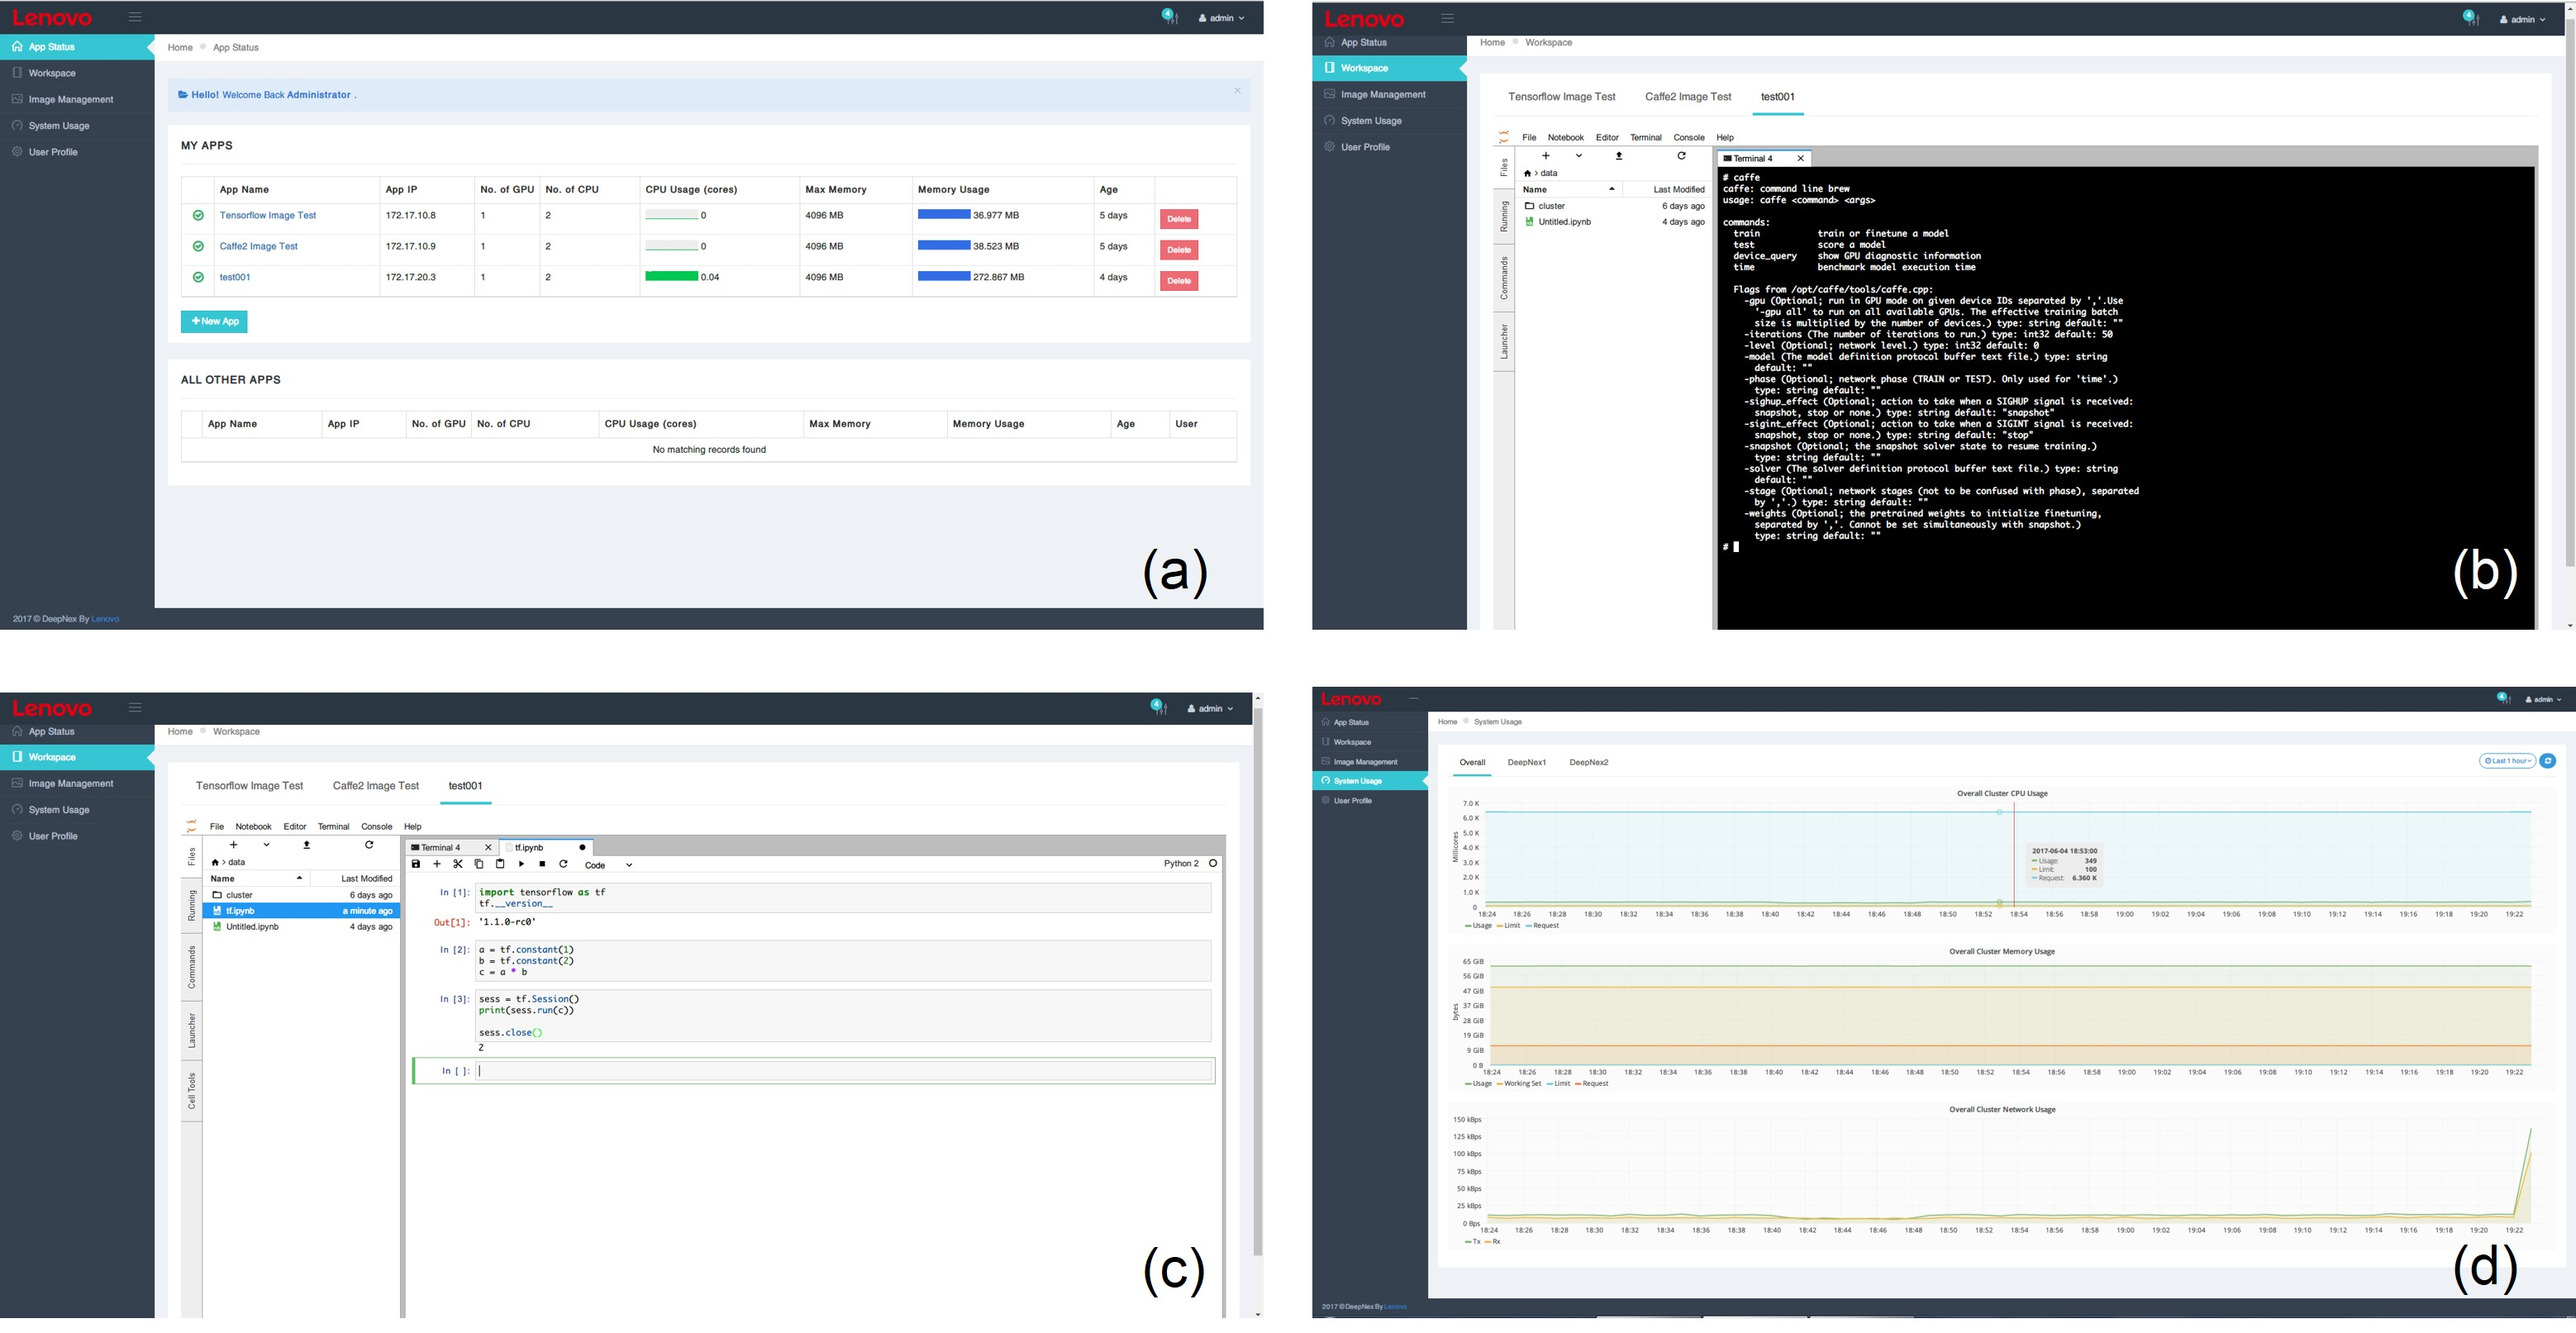
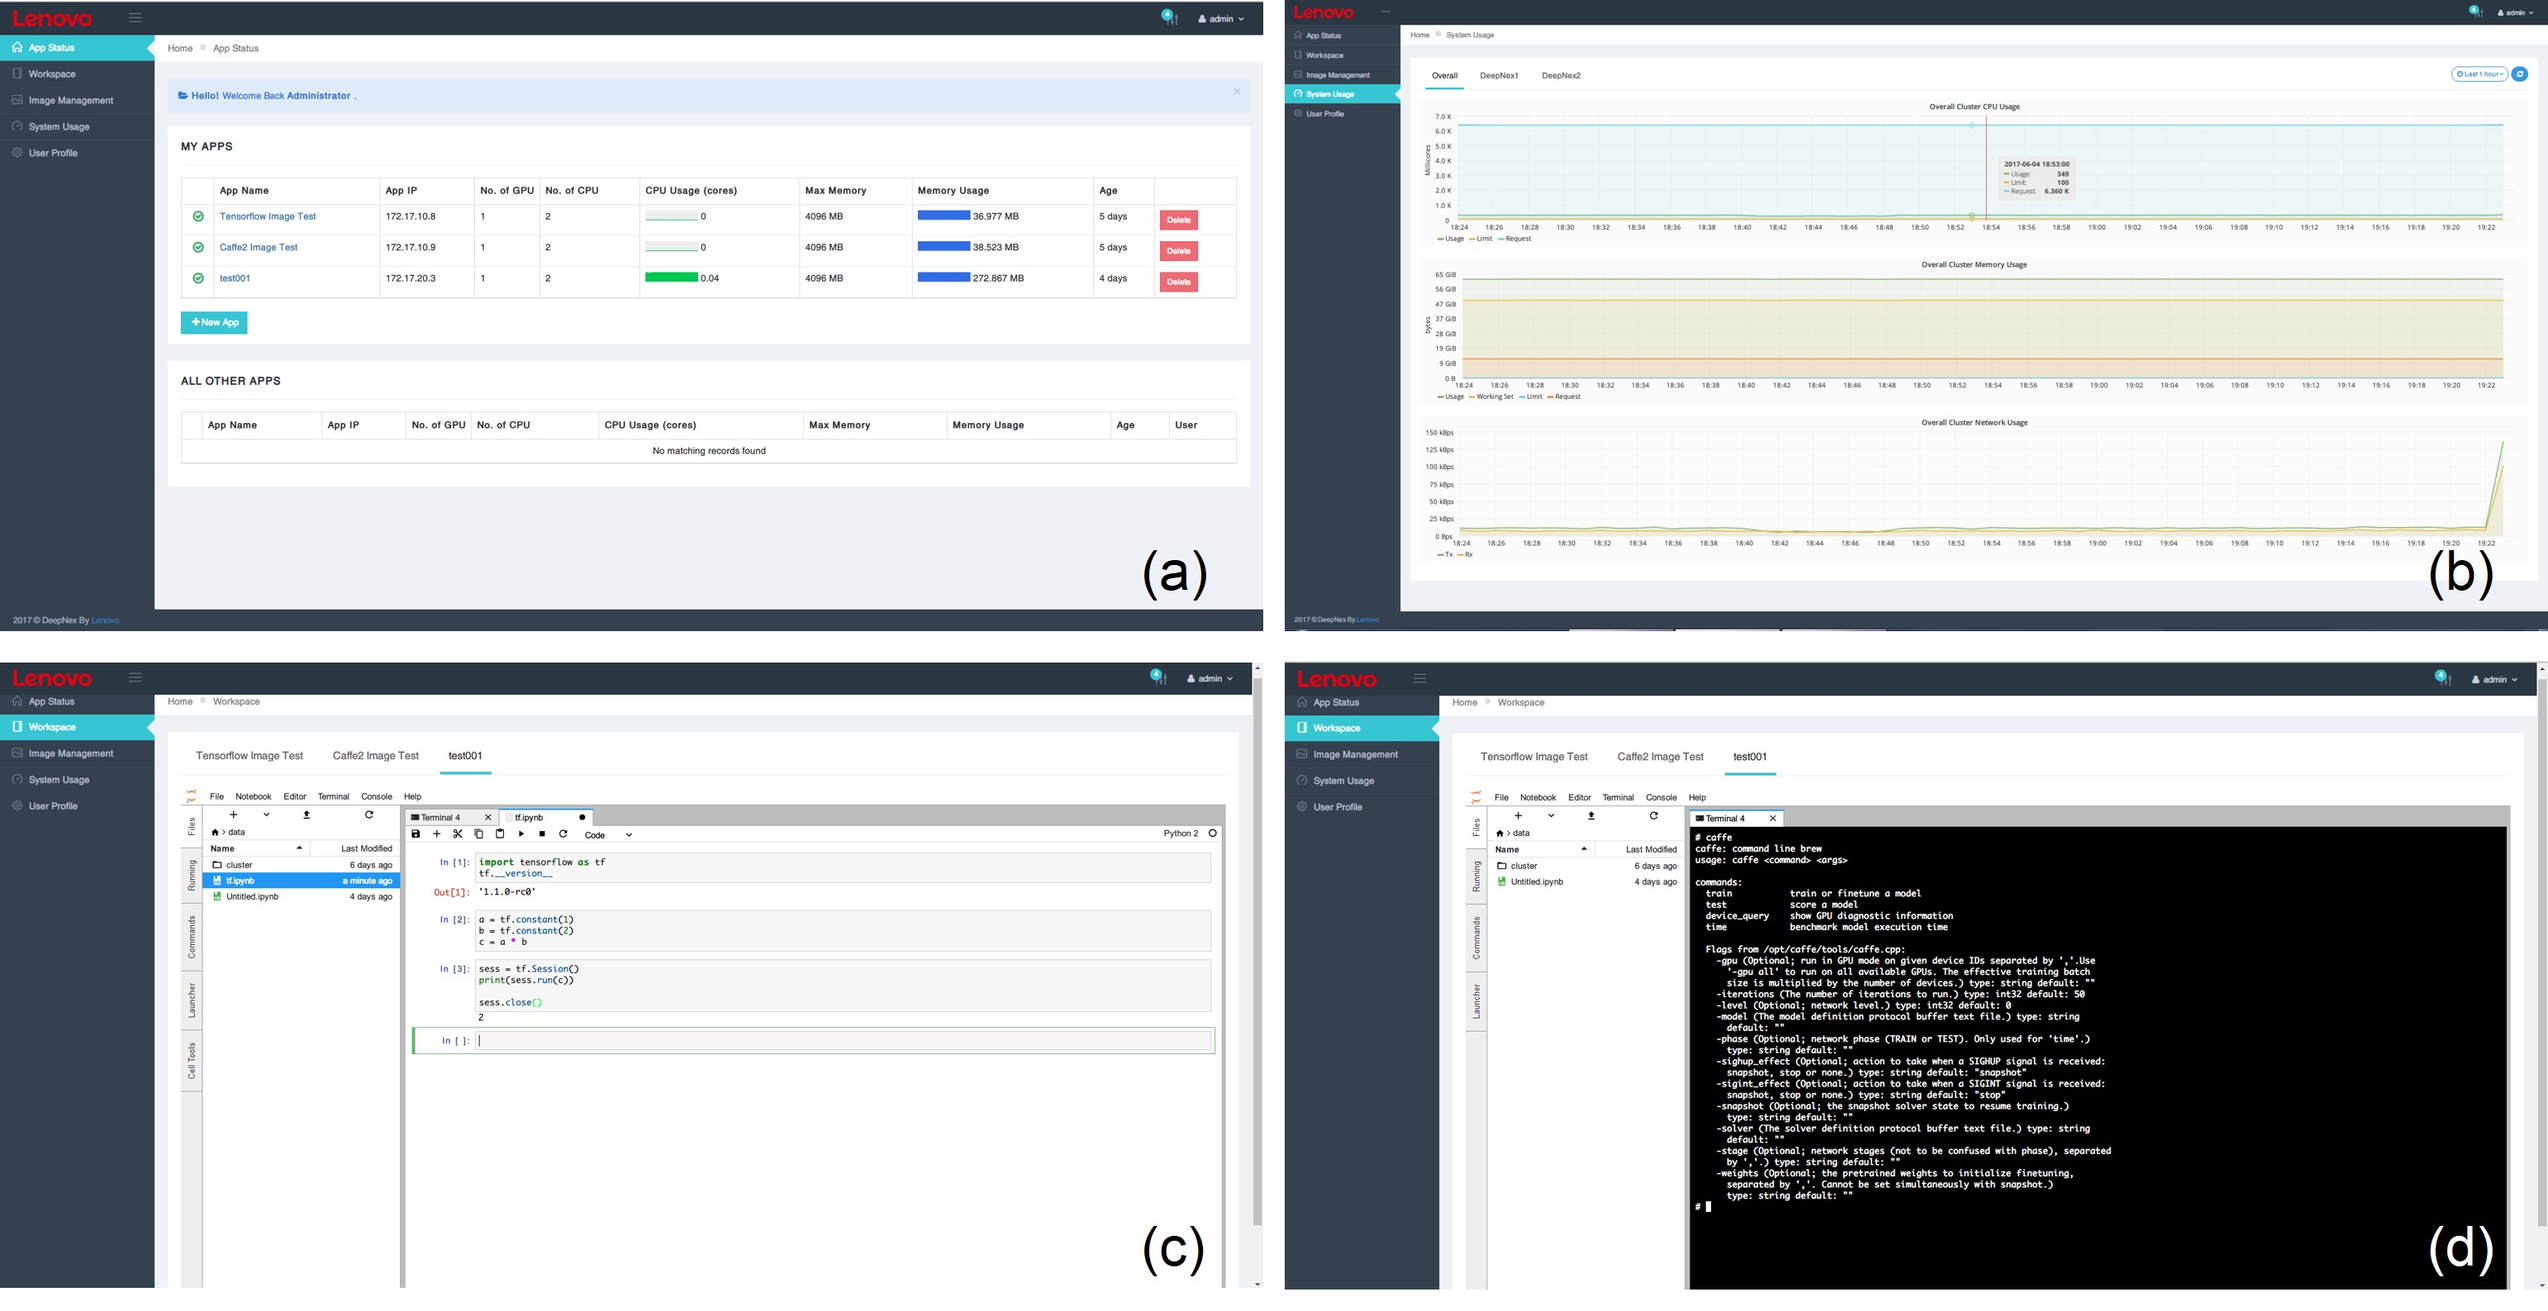
updated

diff --git a/archive/projects/deepnex/index.md b/archive/projects/deepnex/index.md
@@ -23,6 +23,8 @@ lang: zh
 	&nbsp;&nbsp;&nbsp;&nbsp;
 	Min Wang<sup>1</sup>
 	&nbsp;&nbsp;&nbsp;&nbsp;
+	Yi Yang<sup>1</sup>
+	&nbsp;&nbsp;&nbsp;&nbsp;
 	<a href="http://www.jiachen.org/">Jia Chen</a><sup>1</sup>
 </p>
 
@@ -35,7 +37,7 @@ lang: zh
 </p>
 
 <p style="margin-bottom: 30px; text-align:center;" markdown="1">
-	Figure: (a) The dashboard view of DeepNEX, showing how many containers the user created. (b) Run Caffe command line in Ternimal. (c) Run TensorFlow in Jupyter Notebook. (d) System resource monitor view.
+	Figure: (a) The dashboard view of DeepNEX, showing all containers the user created. (b) System resource monitor view. (c) Run TensorFlow in Jupyter Notebook. (d) Run Caffe command line in Terminal.
 </p>
 
 ### Abstract
